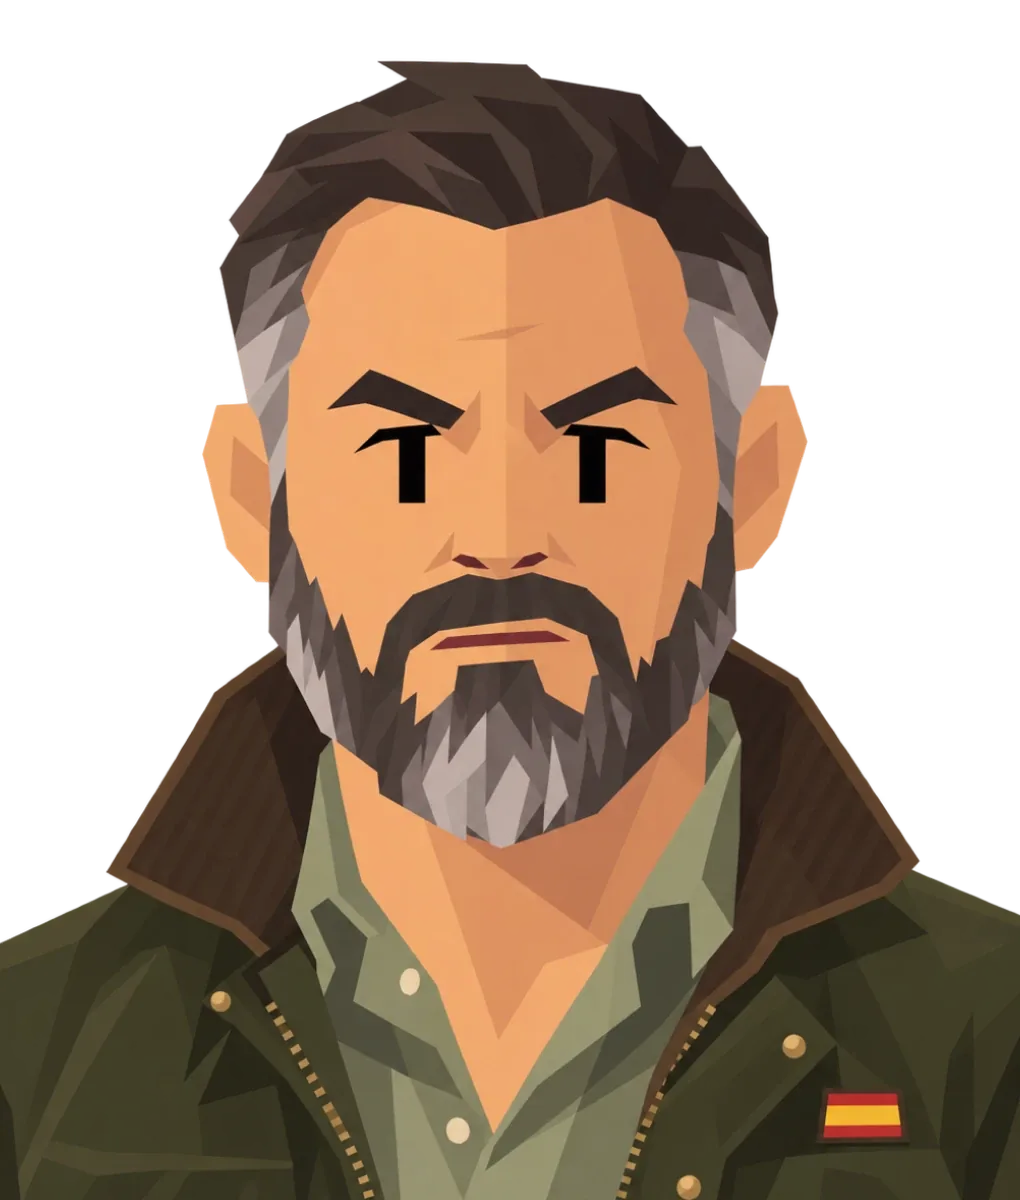
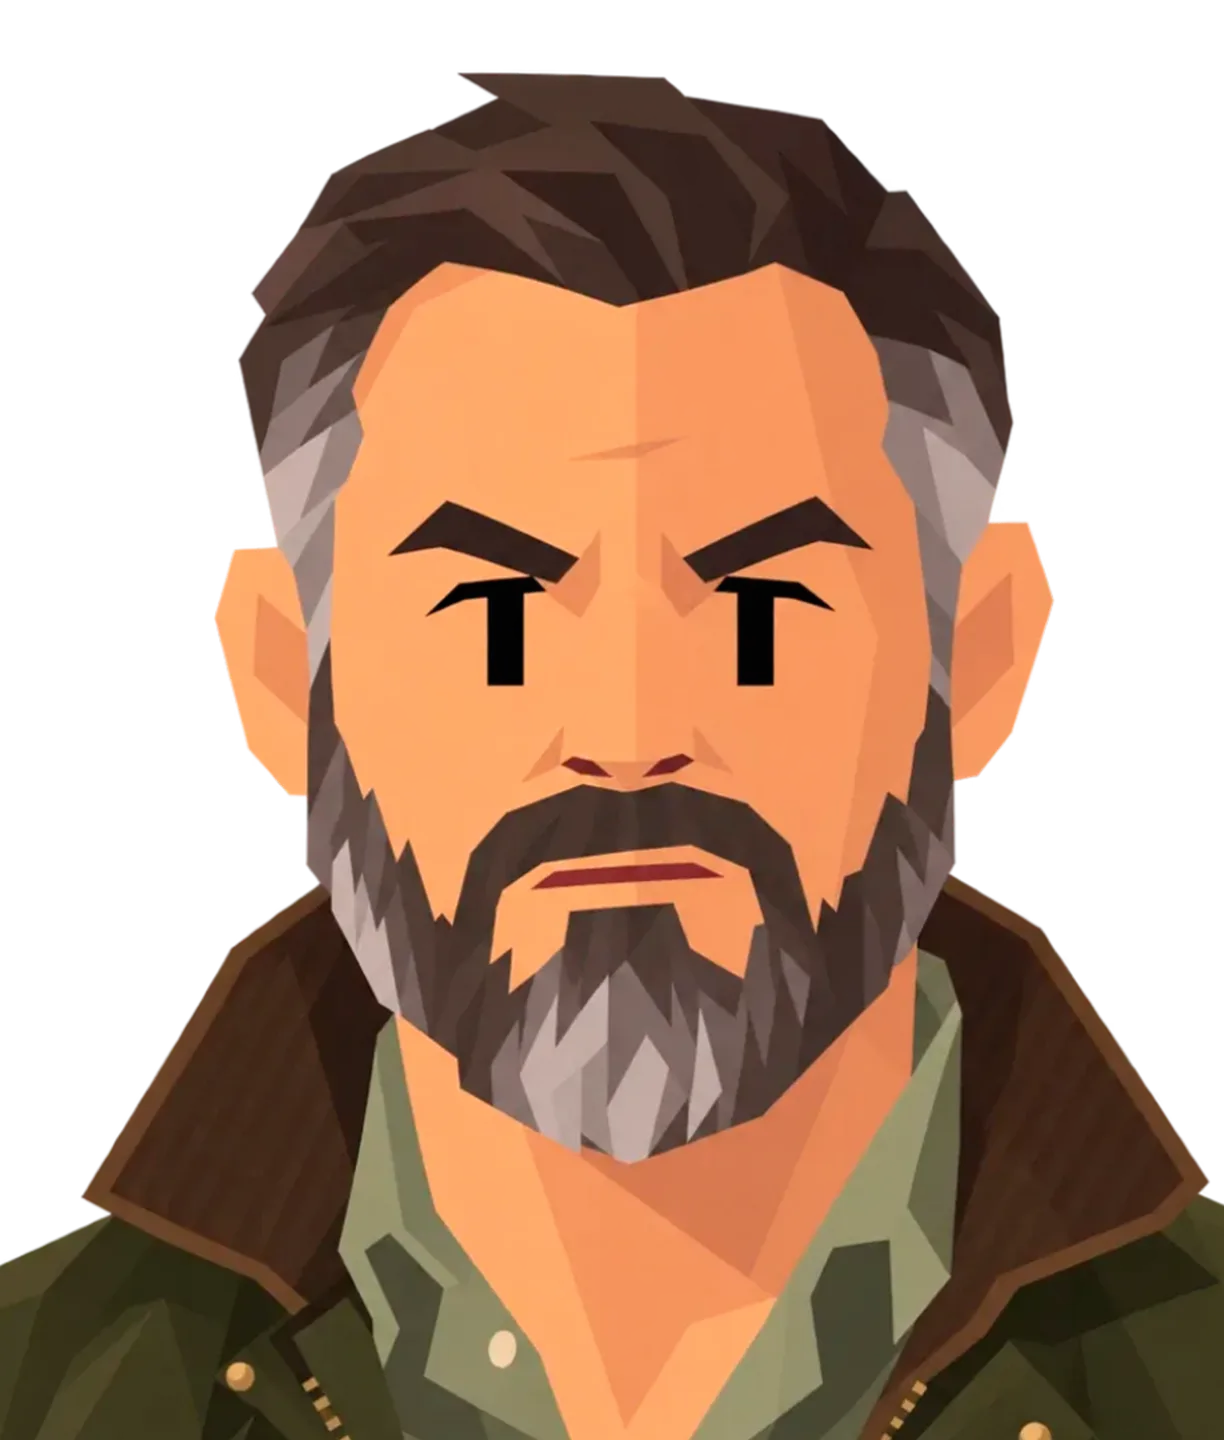
Los veinticuatro retratos, redibujados y a 1224x1440
Arte nuevo de Alberto para todo el reparto, entregado a 1224x1440 exactos con
la figura tocando el borde de abajo y tapandolo al 100%. Pasado por la tuberia
de siempre: recortar-fondo (no hizo falta, venian limpios) -> normalize ->
to-webp -> colores-retrato.

1,9 MB antes, 2,4 MB ahora, con un 44% mas de pixeles por retrato. La pantalla
de carga espera a todos, asi que el medio mega se nota: sigue siendo menos de
lo que costaria subir a 1632.

Y SE ARREGLA UN FALLO QUE METI ESTA MAÑANA. El seguro contra agrandar que puse
al subir el destino a 1224 era `Math.min(escala, 1)` a secas, y eso rompio los
veinticuatro: el arte venia con el aire sobre la cabeza entre el 1,8% y el
10,3%, y al llevarlo al 5% la figura se mueve y hay que escalarla un poco para
que siga llenando el lienzo. Con el tope en 1 no podia, asi que quedaba un
hueco abajo y el torso dejaba de sangrar. El comprobador lo canto en veinte de
los veinticuatro.

Lo que habia que proteger no era que la FIGURA creciera dentro del lienzo -eso
es exactamente el trabajo de este script- sino que una imagen MAS PEQUEÑA que
el destino se estirara para llenarlo, que es donde no hay detalle que ganar.
Ahora el tope mira el tamaño del fichero de origen.

De cuarenta y tantos fallos a uno: un retrato tapa el 98% del borde de abajo
en vez del 100%, y ya venia asi del original.

Los colores de fondo de carta se recalculan solos: dieciocho cambian, porque
el arte nuevo tiene otra paleta.

diff --git a/src/data/coloresRetrato.ts b/src/data/coloresRetrato.ts
@@ -5,28 +5,28 @@
 // con `node scripts/colores-retrato.mjs` cada vez que anadas o cambies un
 // retrato; lo que no este aqui cae al color por defecto y no rompe nada.
 export const COLOR_RETRATO: Record<string, string> = {
-  'agente.webp': '#4d141f',
-  'comisario.webp': '#1b2346',
-  'cruzado.webp': '#4b4316',
-  'encuestador.webp': '#211f42',
-  'escudero.webp': '#261e42',
-  'exiliadopesado.webp': '#1c2345',
-  'expresidentecompetente.webp': '#201c45',
-  'feminista.webp': '#402041',
+  'agente.webp': '#4d141e',
+  'comisario.webp': '#14244d',
+  'cruzado.webp': '#4d4314',
+  'encuestador.webp': '#1d1c45',
+  'escudero.webp': '#241d44',
+  'exiliadopesado.webp': '#17234a',
+  'expresidentecompetente.webp': '#191948',
+  'feminista.webp': '#4d1444',
   'fiscal.webp': '#242e3d',
   'fontanera.webp': '#24283d',
-  'guru.webp': '#441d2a',
-  'hermano.webp': '#242c3d',
+  'guru.webp': '#49181e',
+  'hermano.webp': '#202541',
   'independentista.webp': '#2a243d',
-  'jefecomunicacion.webp': '#141e4d',
+  'jefecomunicacion.webp': '#14234d',
   'juez.webp': '#27243d',
   'ministraincompetente.webp': '#242a3d',
-  'ministrocorrupto.webp': '#24293d',
-  'mopongo.webp': '#4d1415',
-  'oposicionsuave.webp': '#182449',
-  'periodista.webp': '#242e3d',
-  'presidentaregional.webp': '#4d141a',
-  'primeradama.webp': '#24263d',
-  'sociaincomoda.webp': '#3a144d',
+  'ministrocorrupto.webp': '#412041',
+  'mopongo.webp': '#4d1417',
+  'oposicionsuave.webp': '#14264d',
+  'periodista.webp': '#471a37',
+  'presidentaregional.webp': '#4d1419',
+  'primeradama.webp': '#4d2d14',
+  'sociaincomoda.webp': '#4b1642',
   'vicepresi.webp': '#24263d',
 }
